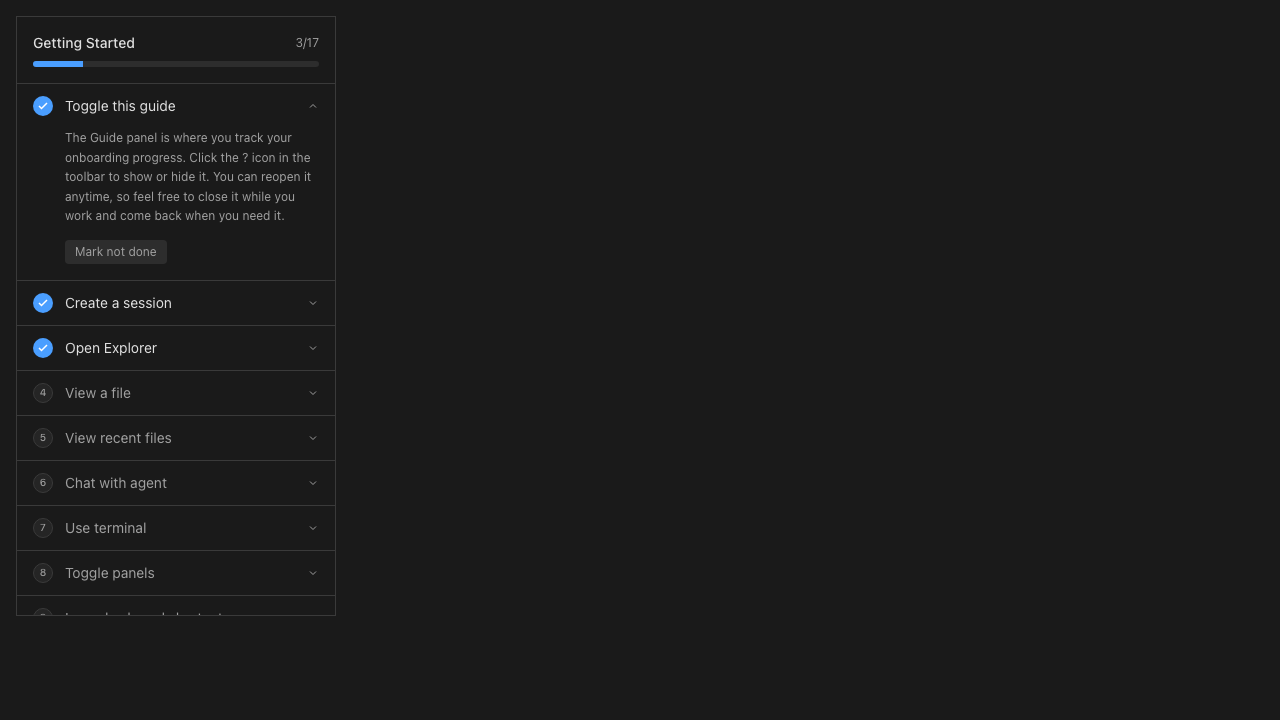
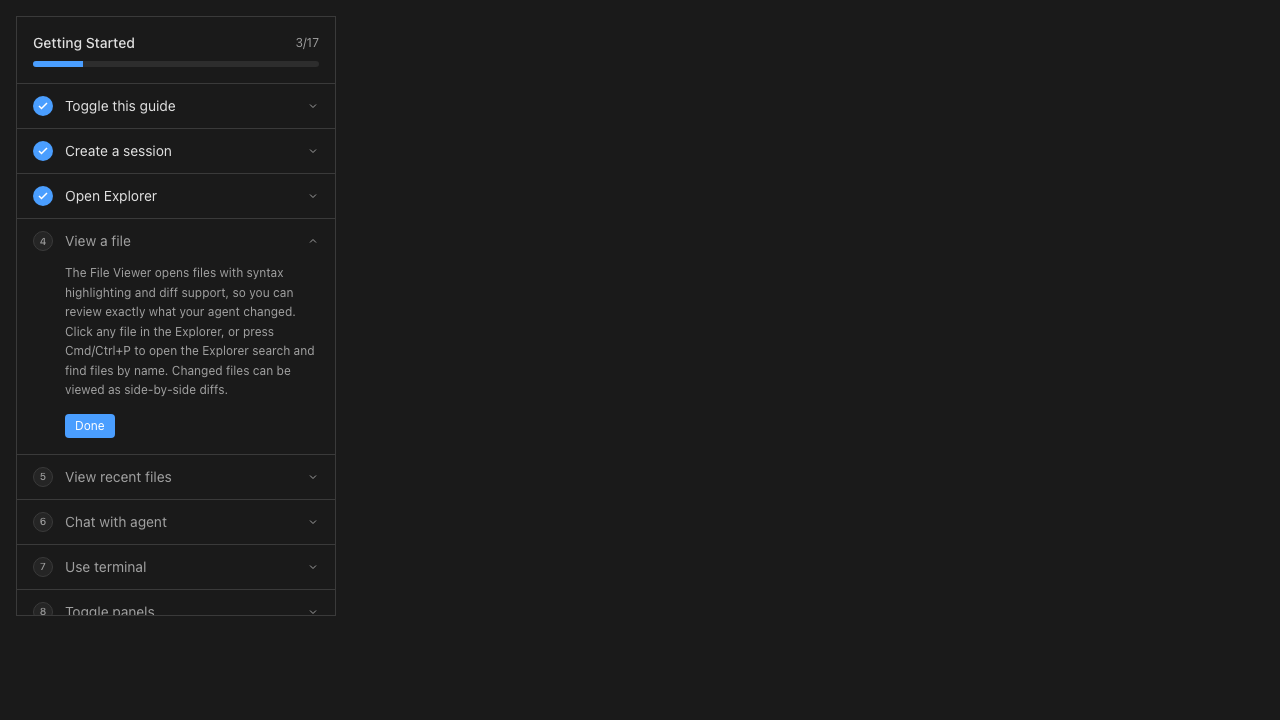
Optimize screenshot tests and document Storybook visual regression pipeline
- Parallelize screenshot capture with 4 browser workers (configurable via --workers=N)
- Replace networkidle wait with domcontentloaded + single render check (no fixed delays)
- Use Node built-in HTTP server instead of spawning npx http-server
- Add --no-build flag to skip Storybook rebuild when iterating
- Add byte-level fast path in pixelDiff to skip PNG decode for identical images
- Only write diff images when pixels actually differ
- Add storybook:test:quick script for rapid iteration without rebuild
- Add per-story pass/fail console output with failure summary at end
- Document Storybook visual regression workflow in testing-guide.md and CLAUDE.md
- Fix TutorialPanel SomeProgress reference (was showing wrong expanded step)

Changed region(s): [[0.0312, 0.3361, 0.25, 0.8556], [0.0312, 0.1833, 0.25, 0.3056]]

diff --git a/docs/testing-guide.md b/docs/testing-guide.md
@@ -358,6 +358,10 @@ All data comes from the mock handlers in `src/main/index.ts`.
 | `pnpm test:e2e:headed` | E2E tests with visible Electron window |
 | `pnpm test:e2e:built` | E2E tests against production build (for CI) |
 | `pnpm test:e2e:built:headed` | Production build E2E tests with visible window |
+| `pnpm storybook` | Start Storybook dev server on port 6006 |
+| `pnpm storybook:build` | Build Storybook to `storybook-static/` |
+| `pnpm storybook:test` | Visual regression: screenshot all stories, diff against refs, report |
+| `pnpm storybook:update-refs` | Accept current screenshots as new reference baseline |
 
 ### Shared Electron Fixture for Feature Docs
 
@@ -415,6 +419,116 @@ pnpm test:feature-docs:view             # Open generated docs in browser
 
 Feature doc tests are **not** run as part of `pnpm test:e2e`. They are separate, on-demand tests. See `CLAUDE.md` for the full specification and screenshot guidelines.
 
+## Storybook Visual Regression Testing
+
+Broomy uses Storybook + Playwright + pixelmatch for visual regression testing. Every UI
+component has co-located stories (`*.stories.tsx`), and a screenshot pipeline captures,
+compares, and reports pixel-level differences against reference images.
+
+### How It Works
+
+1. **Stories** — Each component has a `*.stories.tsx` file next to its source. Stories
+   render the component in various states (empty, loaded, error, etc.) with mock data.
+2. **Screenshot capture** — Storybook is built to static HTML, served locally, and
+   Playwright takes a PNG screenshot of every story at 1280×720.
+3. **Pixel diff** — Each screenshot is compared against a reference image using
+   `pixelmatch` with a 0.1 threshold. Differences above 0.1% of pixels fail.
+4. **HTML report** — A self-contained report at `.storybook-report/index.html` shows
+   reference / current / diff side-by-side for every story.
+
+### Directory Layout
+
+```
+.storybook/              # Storybook configuration
+  main.ts                # Vite config, aliases, process shim
+  preview.tsx            # Global decorators, dark theme, CSS import
+  electronMocks.ts       # Browser-compatible window.* API mocks
+  decorators.tsx         # Reusable decorators (PanelProvider, store state)
+  mockData.ts            # Factory functions for test data
+.storybook-refs/         # Reference screenshots (checked into git)
+.storybook-screenshots/  # Current screenshots (gitignored)
+.storybook-report/       # HTML diff report (gitignored)
+scripts/
+  storybook-screenshot-test.mjs   # Main orchestrator
+  storybook-update-refs.mjs       # Copy current screenshots to refs
+  lib/pixelDiff.mjs               # pixelmatch wrapper
+  lib/generateReport.mjs          # HTML report generator
+```
+
+### Commands
+
+| Command | Description |
+|---------|-------------|
+| `pnpm storybook` | Start Storybook dev server on port 6006 |
+| `pnpm storybook:build` | Build Storybook to `storybook-static/` |
+| `pnpm storybook:test` | Build, screenshot all stories, diff against refs, generate report |
+| `pnpm storybook:update-refs` | Accept current screenshots as the new references |
+
+### Typical Workflow
+
+**First time (no references yet):**
+
+```bash
+pnpm storybook:test          # All stories marked "new" (no refs to compare)
+pnpm storybook:update-refs   # Accept screenshots as baseline references
+pnpm storybook:test          # All stories pass with 0% diff
+```
+
+**After making UI changes:**
+
+```bash
+pnpm storybook:test           # Run visual regression check
+open .storybook-report/index.html  # Review the diff report
+# If the changes are intentional:
+pnpm storybook:update-refs    # Update references to match new screenshots
+```
+
+**Custom reference directory:**
+
+Set `STORYBOOK_REFS_DIR` to use a different location for reference images:
+
+```bash
+STORYBOOK_REFS_DIR=/path/to/shared/refs pnpm storybook:test
+```
+
+### Writing Stories
+
+Stories are co-located with components as `ComponentName.stories.tsx`:
+
+```tsx
+import type { Meta, StoryObj } from '@storybook/react'
+import MyComponent from './MyComponent'
+
+const meta: Meta<typeof MyComponent> = {
+  title: 'UI/MyComponent',
+  component: MyComponent,
+}
+export default meta
+type Story = StoryObj<typeof MyComponent>
+
+export const Default: Story = {
+  args: { label: 'Click me' },
+}
+
+export const Loading: Story = {
+  args: { label: 'Click me', isLoading: true },
+}
+```
+
+**Key conventions:**
+
+- Title follows the pattern: `UI/ComponentName`, `Explorer/SubComponent`, `Settings/TabName`
+- Use `.storybook/mockData.ts` factories (`makeSession()`, `makeRepo()`, etc.) for test data
+- Use `.storybook/decorators.tsx` for components that need `PanelProvider` or Zustand store state
+- Electron API mocks are installed globally in `preview.tsx` — no per-story setup needed
+
+### Electron API Mocks
+
+`.storybook/electronMocks.ts` provides browser-compatible mocks for all `window.*` APIs
+(pty, fs, git, gh, config, profiles, agents, repos, shell, dialog, app, menu, update, ts,
+help, devcontainer, windowControls). These use plain functions (not `vi.fn()`) and return
+sensible defaults. They are installed once in `preview.tsx` before any story renders.
+
 ### Recommended Workflow
 
 1. Make code changes
@@ -422,4 +536,5 @@ Feature doc tests are **not** run as part of `pnpm test:e2e`. They are separate,
 3. Run `pnpm test:unit` to verify unit tests pass
 4. Run `/coverage-run` to confirm coverage stays above 90% (or `pnpm test:unit:coverage` directly). Use `/coverage-check <file>` for incremental checks on individual files.
 5. Run `pnpm test:e2e` to verify E2E tests still pass
-6. Create or update a feature doc screenshot walkthrough, then run `pnpm test:feature-docs <feature-slug>` to verify
+6. Run `pnpm storybook:test` to catch visual regressions
+7. Create or update a feature doc screenshot walkthrough, then run `pnpm test:feature-docs <feature-slug>` to verify

diff --git a/CLAUDE.md b/CLAUDE.md
@@ -14,6 +14,9 @@ pnpm install         # Install dependencies (use pnpm, not npm/yarn)
 pnpm dev             # Development with hot reload (renderer only; restart for main/preload changes)
 pnpm build           # Build without packaging
 pnpm dist            # Build and package for macOS
+pnpm storybook       # Storybook dev server on port 6006
+pnpm storybook:test  # Visual regression test (screenshot + pixel-diff + report)
+pnpm storybook:update-refs  # Accept current screenshots as reference baseline
 ```
 
 ## Shell Commands
@@ -79,7 +82,18 @@ Session store debounces saves with 500ms delay. Runtime-only state (`status`, `i
 
 ## Testing
 
-Unit tests are co-located with source files (`src/**/*.test.ts`). Vitest with 90% line coverage threshold. E2E tests use Playwright with `E2E_TEST=true` for deterministic mock data. See `docs/testing-guide.md` for patterns and conventions.
+Unit tests are co-located with source files (`src/**/*.test.ts`). Vitest with 90% line coverage threshold. E2E tests use Playwright with `E2E_TEST=true` for deterministic mock data. Storybook visual regression tests screenshot every component and diff against reference images. See `docs/testing-guide.md` for patterns and conventions.
+
+### Storybook Visual Regression
+
+```bash
+pnpm storybook              # Dev server on port 6006
+pnpm storybook:build        # Build to storybook-static/
+pnpm storybook:test         # Screenshot all stories, diff against refs, generate report
+pnpm storybook:update-refs  # Accept current screenshots as new references
+```
+
+Stories are co-located as `*.stories.tsx` next to source files. Reference images live in `.storybook-refs/` (checked into git). The diff report is generated at `.storybook-report/index.html`.
 
 ### Adding a new store
 
